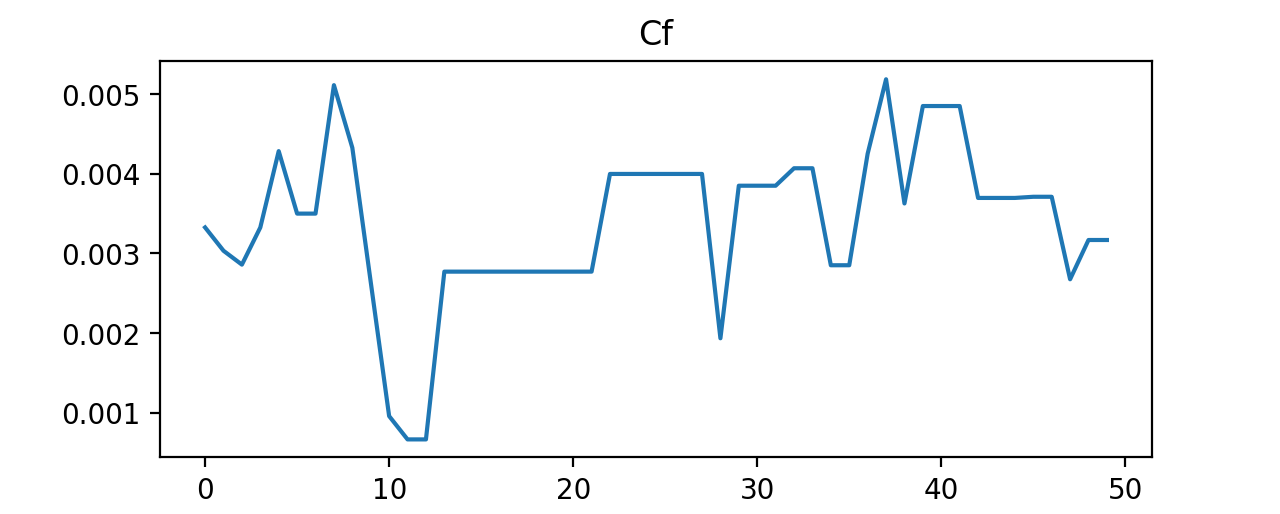
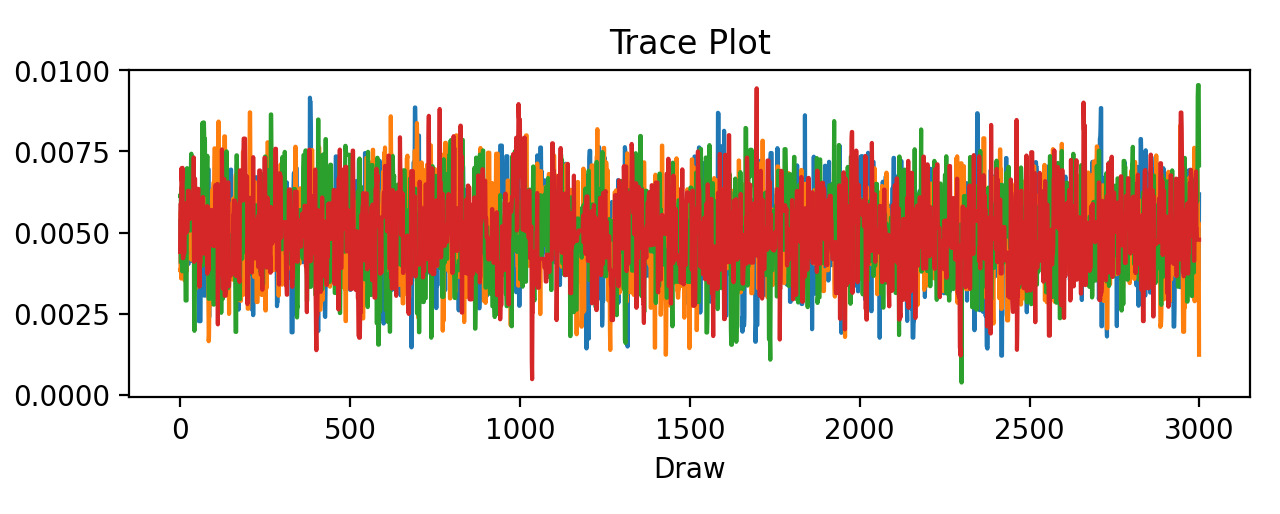
just uploading my results from a long mcmc run

diff --git a/Sharpios1dFlowP4.py b/Sharpios1dFlowP4.py
@@ -950,7 +950,7 @@ if __name__ == '__main__':
 
     with pm.Model() as model:
         #prior for Cf
-        mu = 0.004
+        mu = 0.005
         scale = 0.005 * 0.15
         prior_Cf = pm.TruncatedNormal("Cf", mu=mu,  sigma=0.00125,lower = 0,initval=mu,default_transform=None)
         
@@ -961,31 +961,69 @@ if __name__ == '__main__':
         step = pm.DEMetropolisZ(
             vars = [prior_Cf],
             S= np.array([scale]), 
-            scaling = 0.001,
+            scaling = 0.01,
             tune="scaling",
             tune_interval=100,
             tune_drop_fraction=0.9
         )
 
         trace = pm.sample(
-            draws=50,
-            tune=20,
+            draws=3000,
+            tune=1000,
             step = step,
-            chains=1,
-            cores = 1,
+            chains=4,
+            cores = 4,
             random_seed=42,
             progressbar=True,
             return_inferencedata=True,
             compute_convergence_checks=True,
         )
 
+    summary = az.summary(trace, var_names=["Cf"])
+    print(summary)
+
+    cf_samples = trace.posterior["Cf"].values.flatten()
+
+    print("True_Cf:", True_Cf)
+    print("Posterior mean:", np.mean(cf_samples))
+    print("Posterior median:", np.median(cf_samples))
+    print("5%-95%:", np.quantile(cf_samples, [0.05, 0.95]))
+
+    # 1. trace plot
     az.plot_trace(trace, var_names=["Cf"])
+    plt.title("Trace Plot")
+    plt.tight_layout()
     plt.savefig("Cf_trace.png", dpi=200)
     plt.show()
 
+    # 2. posterior plot with true value
+    az.plot_dist(trace, var_names=["Cf"])
+    plt.title("Posterior Plot")
+    plt.tight_layout()
+    plt.savefig("Cf_posterior.png", dpi=200)
+    plt.show()
+
+    # 3. autocorrelation plot
     az.plot_autocorr(trace, var_names=["Cf"])
+    plt.title("AutoCorrelationPlot")
+    plt.tight_layout()
     plt.savefig("Cf_autocorr.png", dpi=200)
     plt.show()
+
+    # 4. running mean plot
+    running_mean = np.cumsum(cf_samples) / np.arange(1, len(cf_samples) + 1)
+
+    plt.figure()
+    plt.plot(running_mean)
+    plt.axhline(True_Cf, linestyle="--", label="True Cf")
+    plt.xlabel("Sample")
+    plt.ylabel("Running mean of Cf")
+    plt.legend()
+    plt.grid(True)
+    plt.tight_layout()
+    plt.savefig("Cf_running_mean.png", dpi=200)
+    plt.show()
+
 
 #az.plot_posterior(trace, var_names=["Cf"], ref_val=True_Cf)
 #plt.savefig("Cf_posterior.png", dpi=200)
